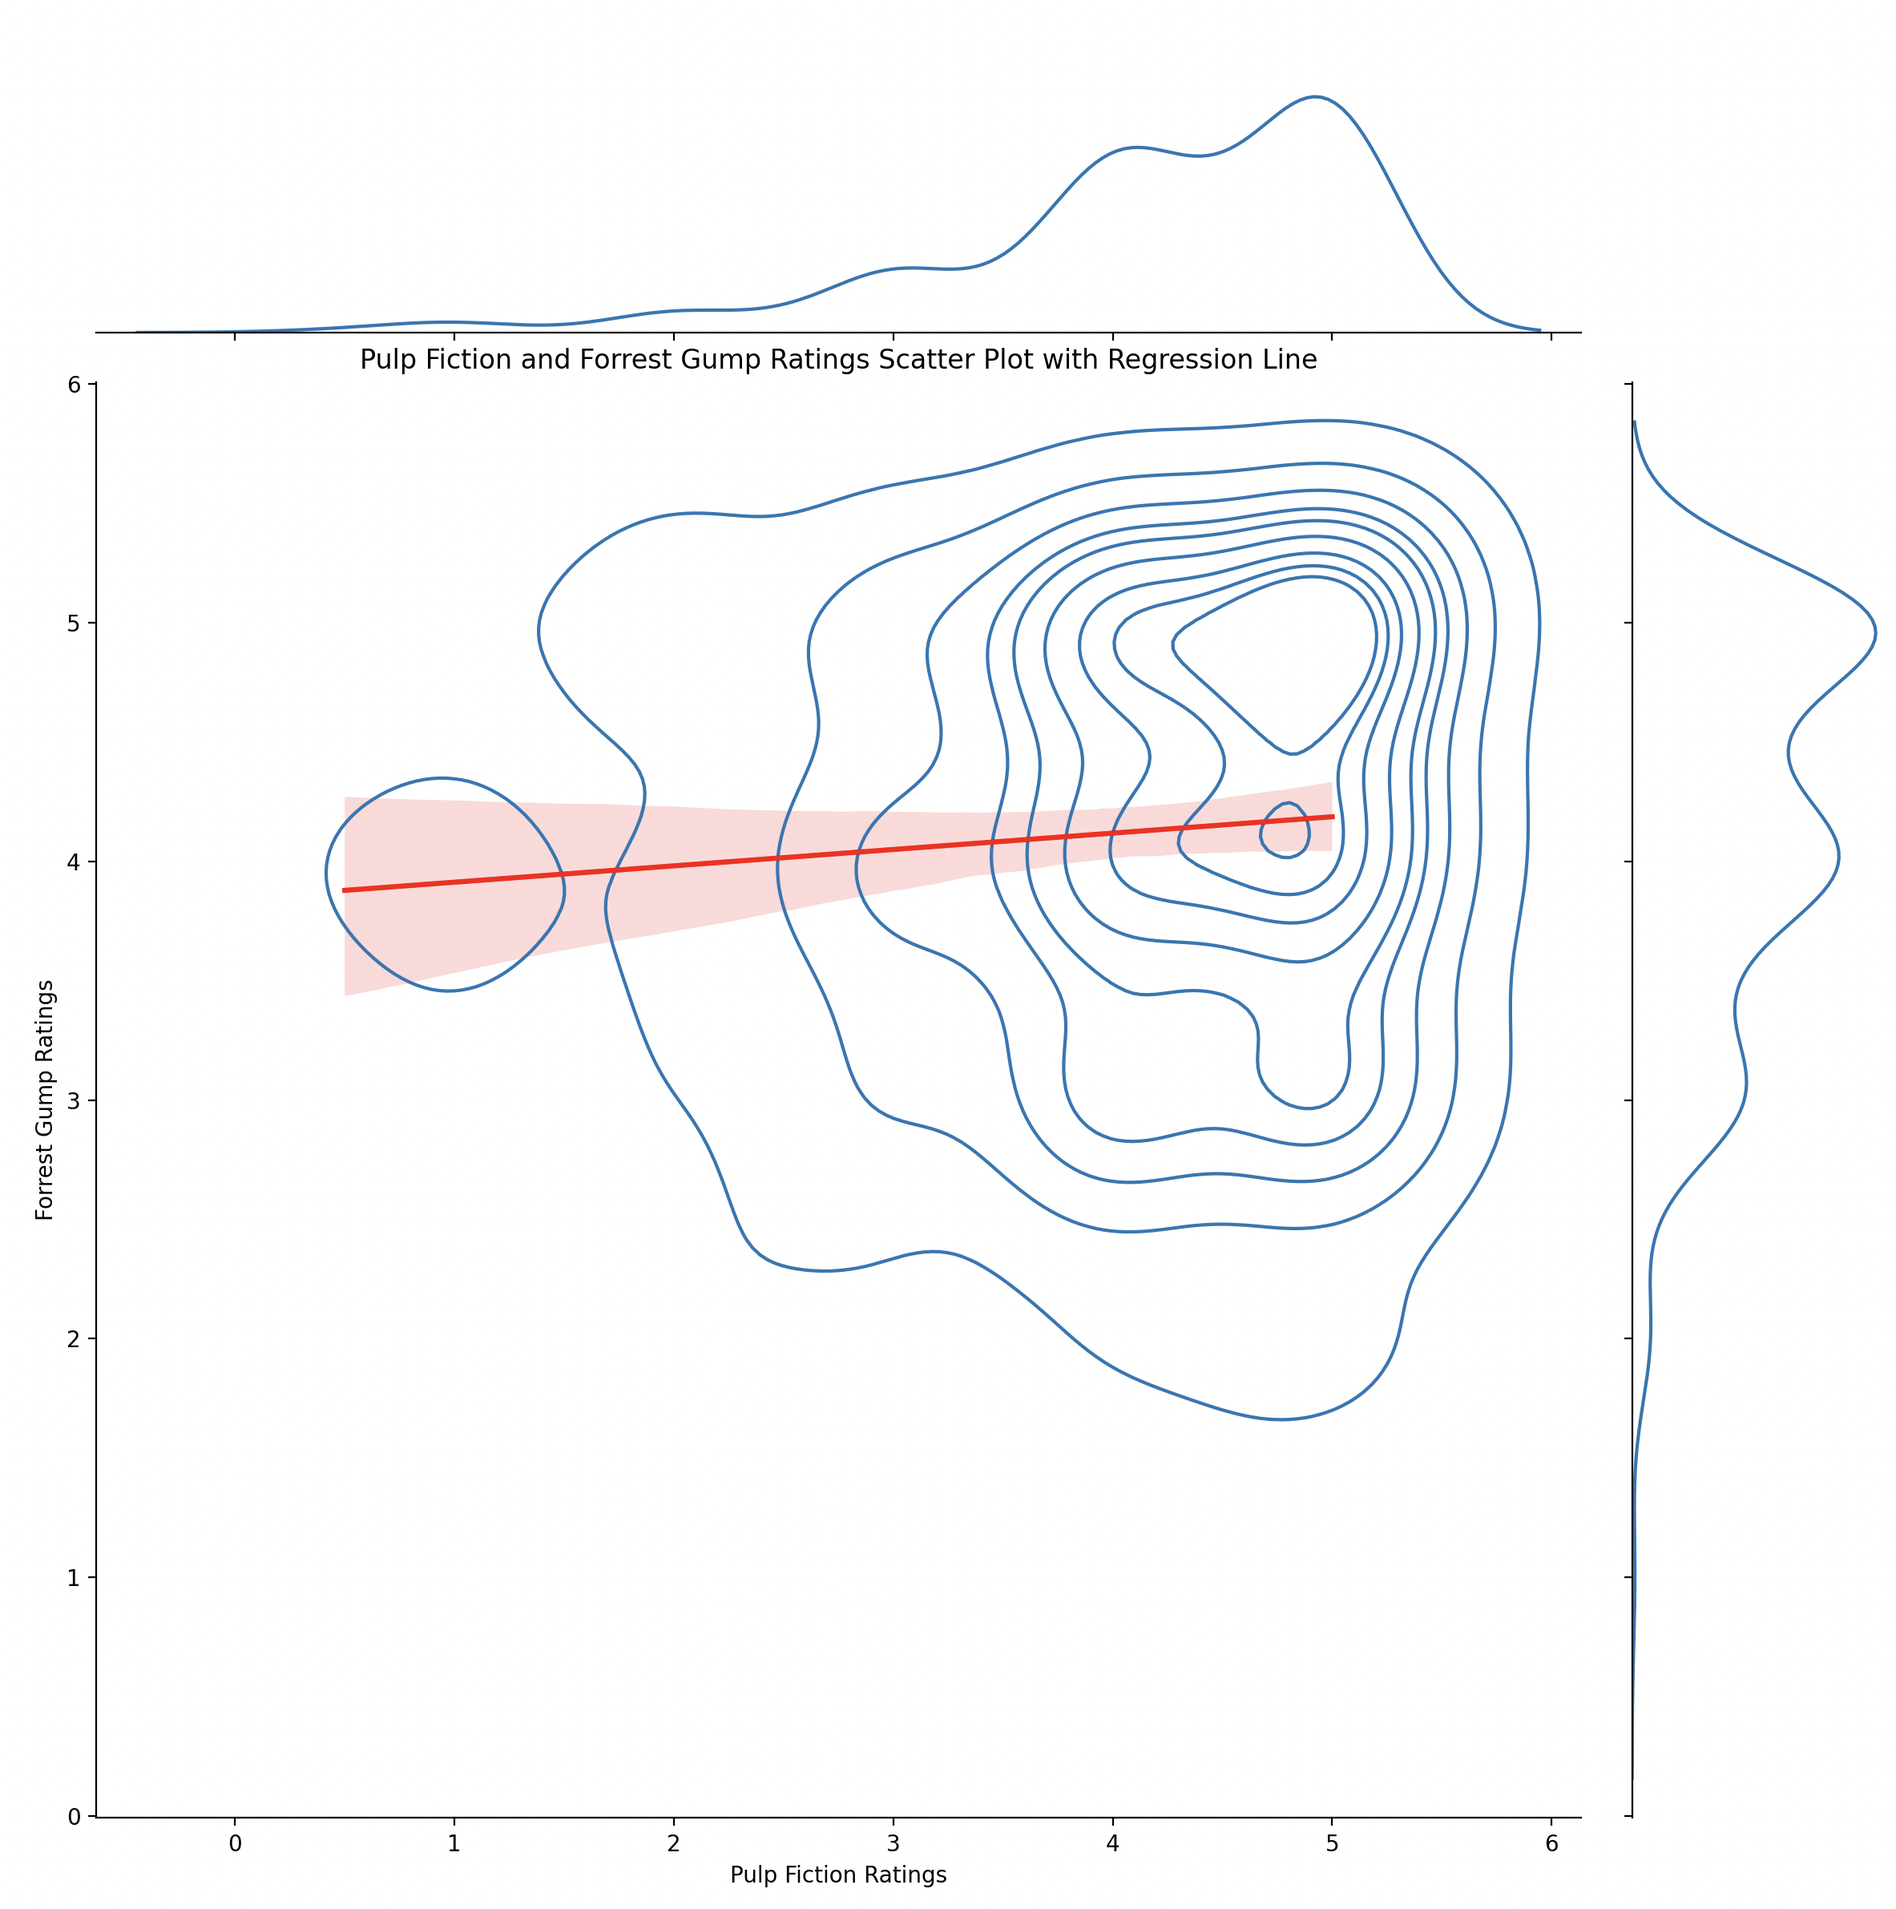
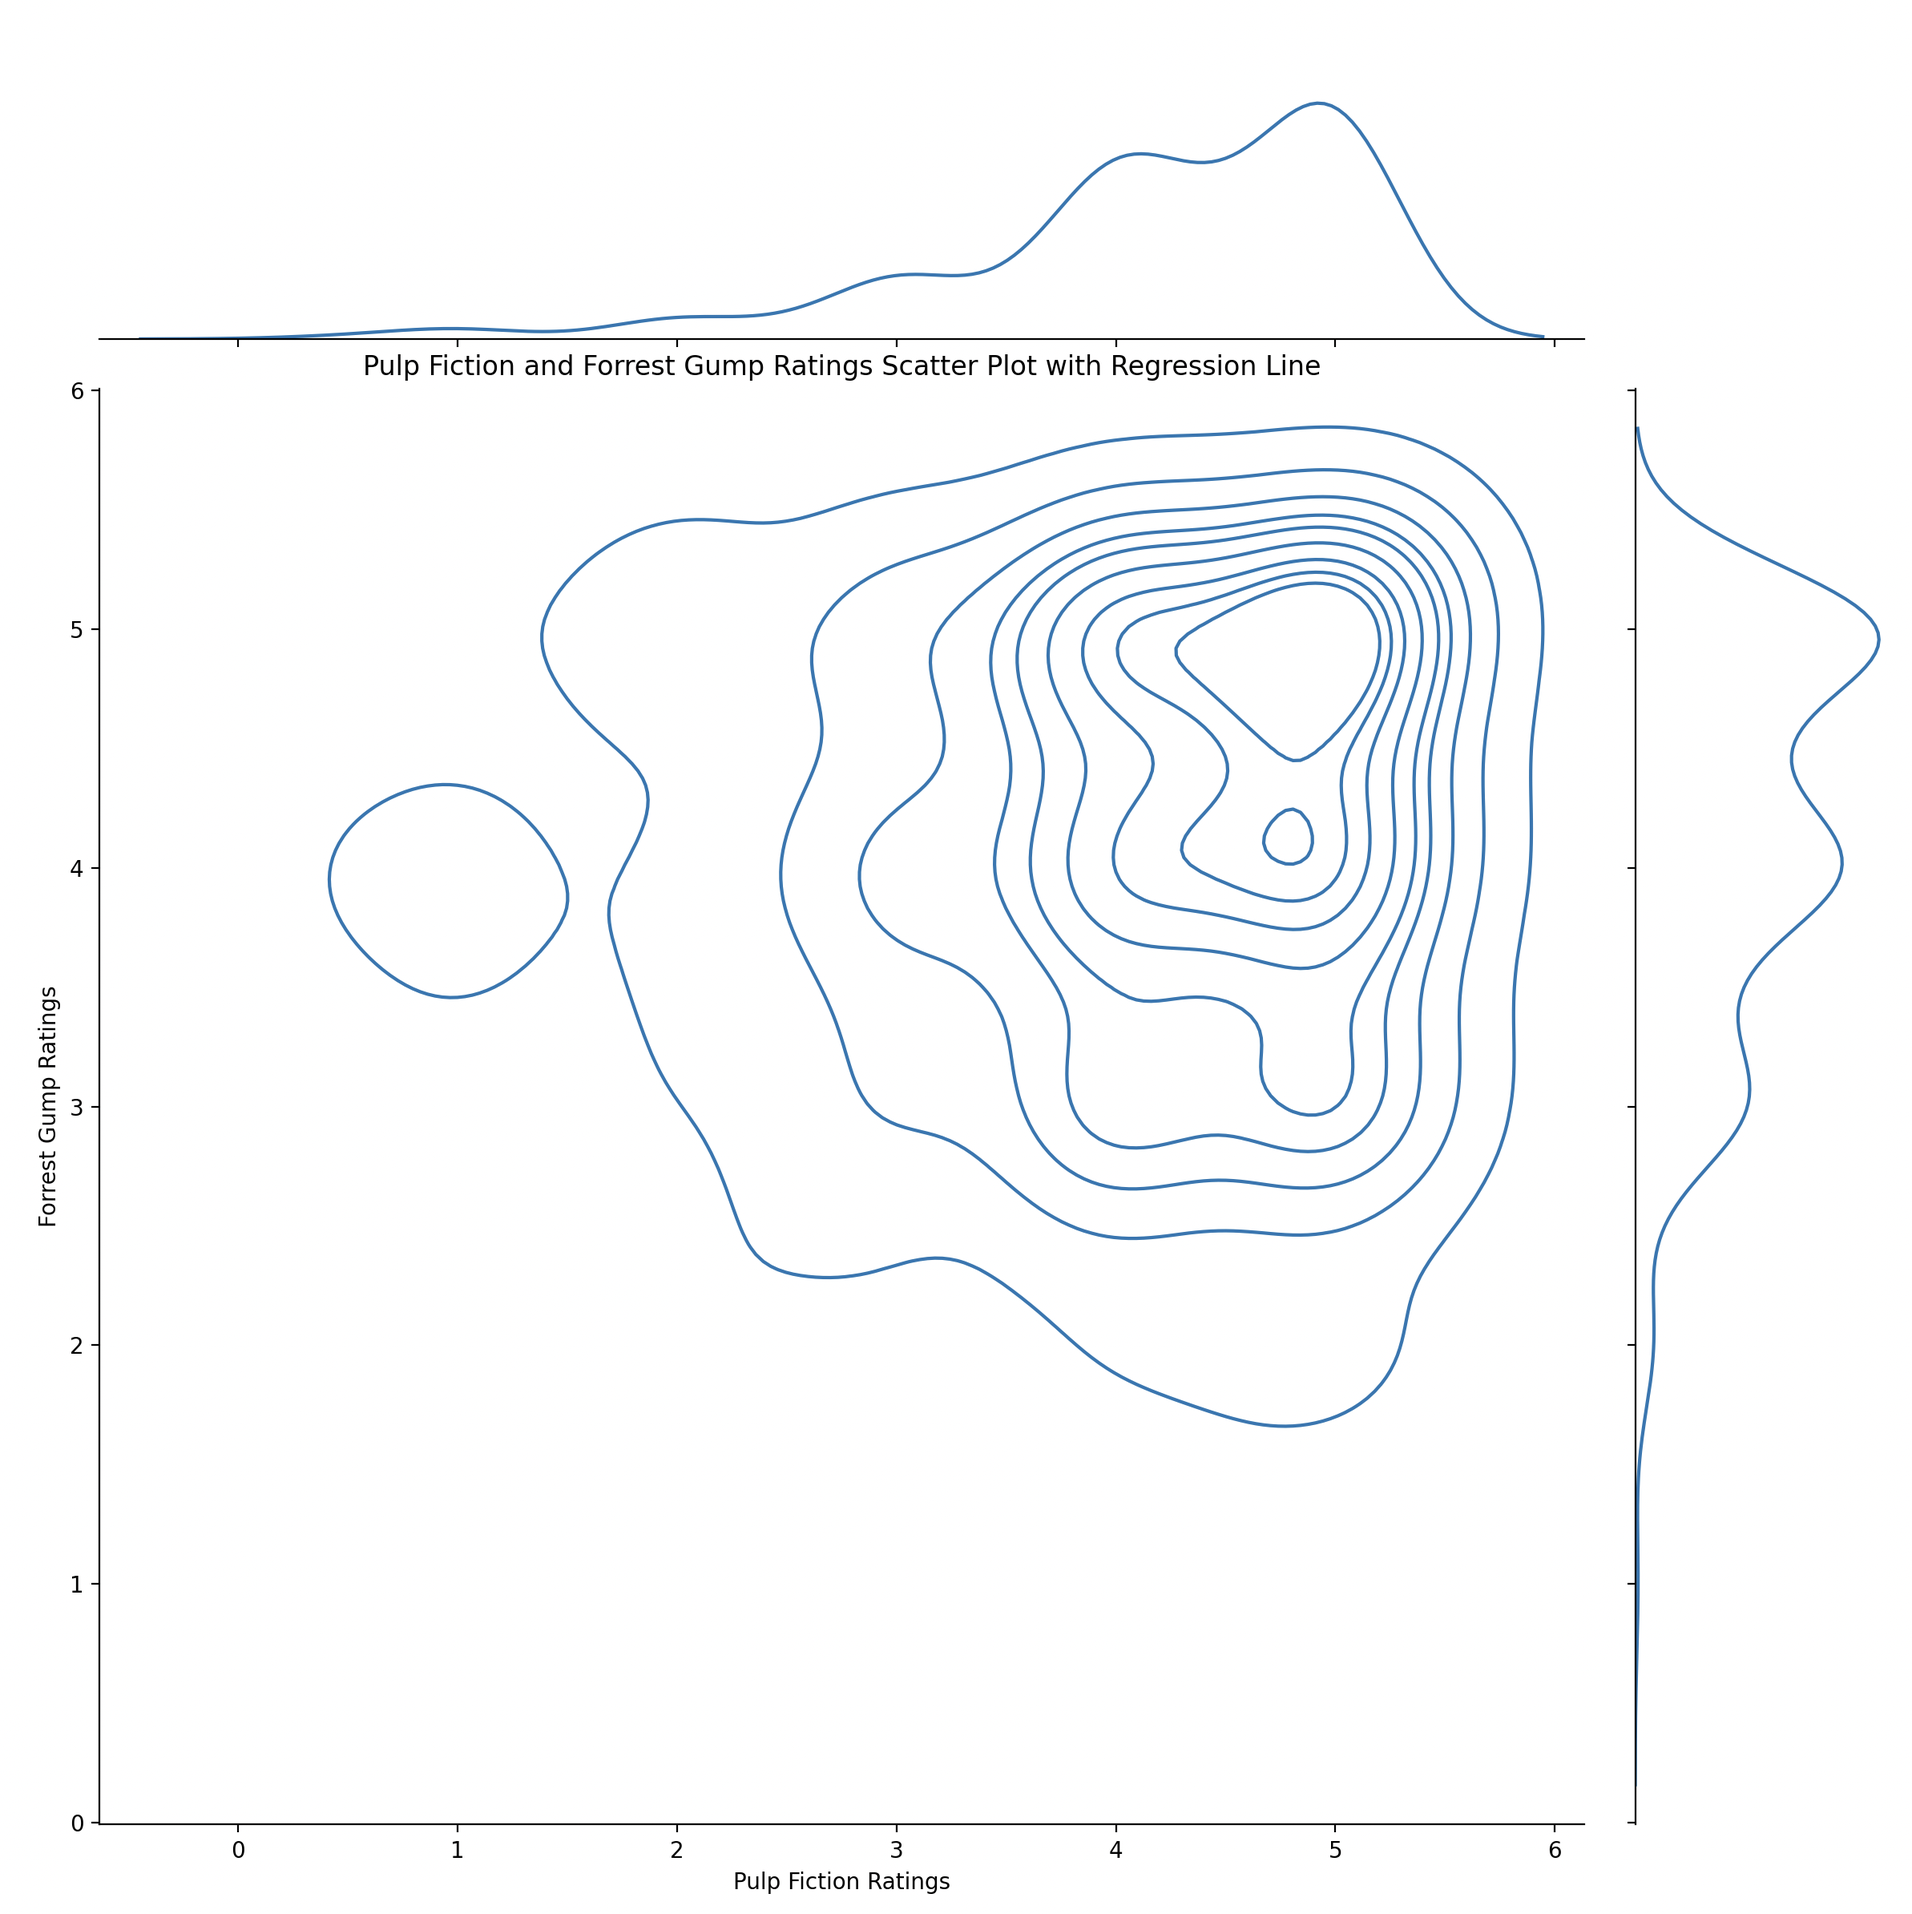
saving

diff --git a/nearest_neighbour_algorythm/pearson_correlation.py b/nearest_neighbour_algorythm/pearson_correlation.py
@@ -6,7 +6,7 @@
 #    By: quentinbeukelman <quentinbeukelman@stud      +#+                      #
 #                                                    +#+                       #
 #    Created: 2023/04/19 13:51:58 by quentinbeuk   #+#    #+#                  #
-#    Updated: 2023/04/19 14:20:33 by quentinbeuk   ########   odam.nl          #
+#    Updated: 2023/04/20 07:50:12 by quentinbeuk   ########   odam.nl          #
 #                                                                              #
 # **************************************************************************** #
 
@@ -45,7 +45,7 @@ def ft_scatter_plot(ratings, pulp_fiction_ratings, forrest_gump_ratings, body_pa
     joint_plot = sns.jointplot(data=ratings, x="rating_pulp", y="rating_gump", kind="kde", height=12)
 
     # Add a regression line to the jointplot
-    sns.regplot(data=ratings, x="rating_pulp", y="rating_gump", ax=joint_plot.ax_joint, scatter=False, color='red')
+    sns.regplot(data=ratings, x="rating_pulp", y="rating_gump", ax=joint_plot.ax_joint, scatter=True, color='red')
 
     # Set the plot title and axis labels
     plt.subplots_adjust(top=0.95) # to avoid title overlap with plot

diff --git a/nearest_neighbour_algorythm/README.md b/nearest_neighbour_algorythm/README.md
@@ -182,6 +182,8 @@ $$
 
 ### Pearson Corrolation (item-based)
 
+Define positive and negative corolations
+
 ![2D Utility Matirx Heatmap](../media/pearson_correlation_simple.png)
 
 <br />
